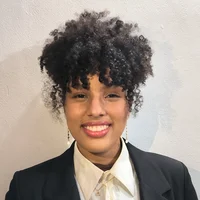
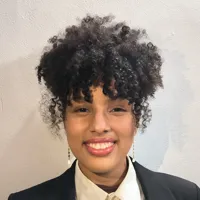
Fotos de alguns membros corrigidas

diff --git a/pages/team.html b/pages/team.html
@@ -288,7 +288,7 @@
                     <span>Maíra Matos Araujo</span>
                   </div>
                 </td>
-                <td class="former-about"><a href="https://wwws.cnpq.br/cvlattesweb/PKG_MENU.menu?f_cod=FC3A1F7765A731EFAC14F3FDAB3556B0" target="_blank" rel="noopener noreferrer">Lattes (Brazil)</a></td>
+                <td class="former-about"><a target="_blank" rel="noopener noreferrer">Lattes (Brazil)</a></td>
                 <td class="former-about"><a href="mailto:mairaaraujo@ufba.br" target="_blank" rel="noopener noreferrer">mairaaraujo@ufba.br</a></td>
               </tr>
               <tr>
